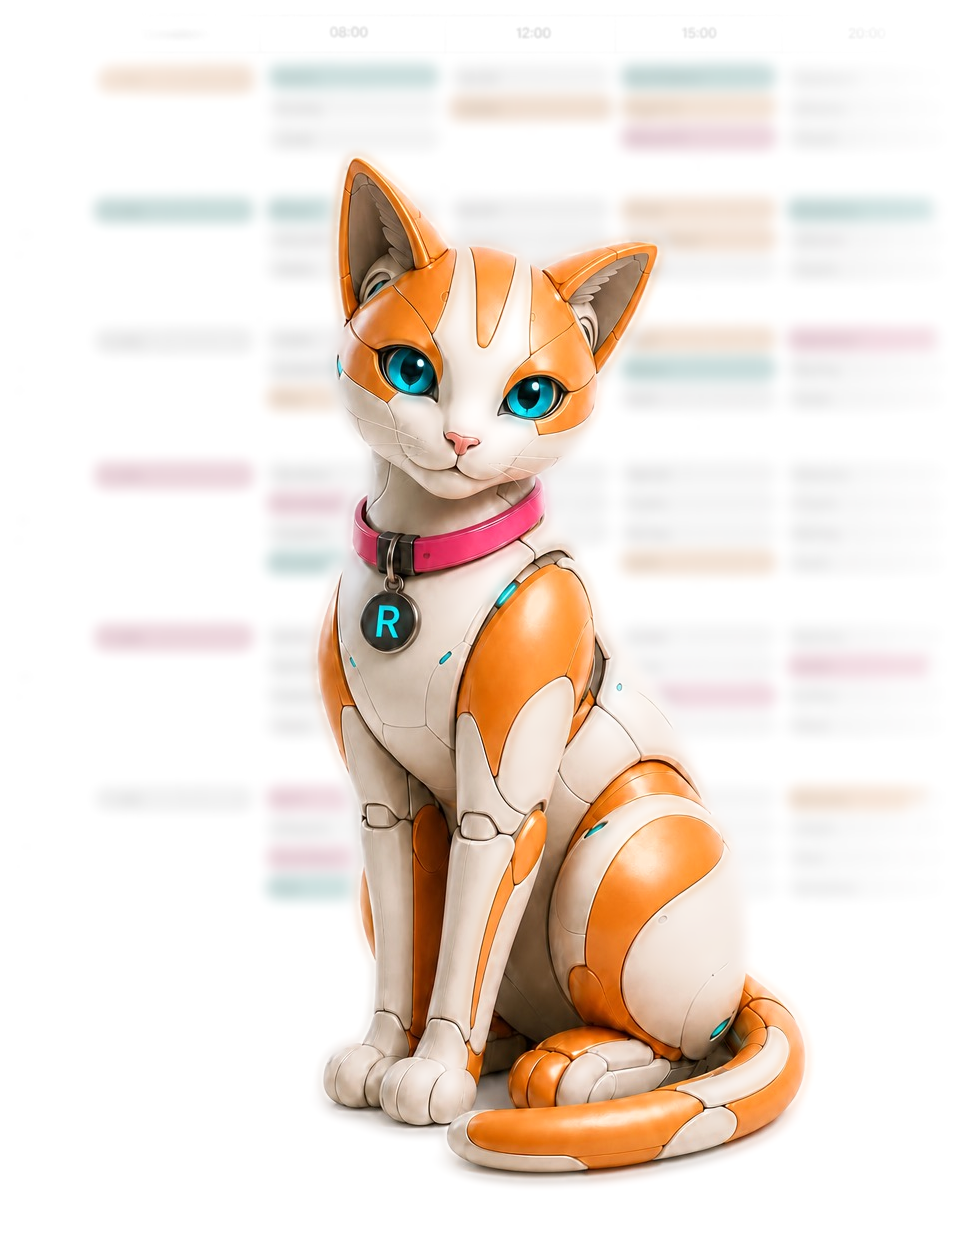
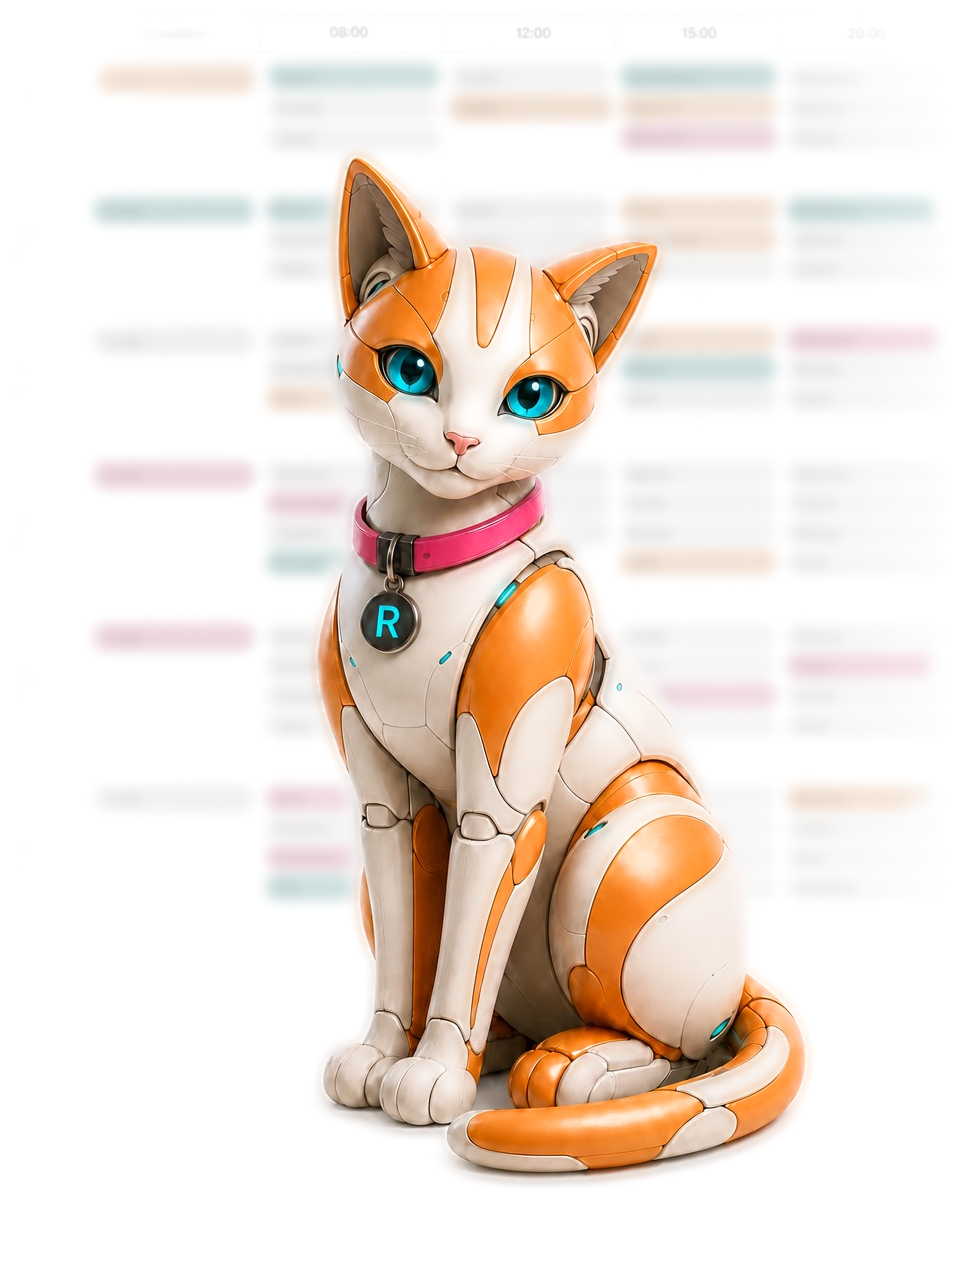
Fix the mascot's size and clearance on short viewports
Three problems, all from sizing the mascot against the viewport when the
space that actually constrains it is the panel:

Portrait phones. The paws cleared the mint sheet by 1px at 375x667 and
5px at 320x568 — visually touching. The canvas now carries 8.5% clearance
below the paws instead of 4.7%, which lifts every portrait size to at
least 11px. The cat renders about 4% smaller for it (268px tall at
390x844, was 279px).

Landscape tablets and wide phones, on the split layout. 45vh collapsed
the cat to 145-160px at 390-430px of viewport height, even though the
card — whose height the sign-in form sets, not the viewport — had room
for far more. A 260px floor via clamp() takes those to 206px. The card
was already taller than a landscape viewport at these sizes, so this
costs a little more scrolling; the sign-in button stays above the fold at
every size checked.

Landscape phones narrow enough for the stacked layout (667x375). The
paws sat 19px *behind* the sheet — clipped. There is no size that works
here: the sheet's 44dvh plus the 28px it overlaps leaves under 110px, and
a cat that small is not worth the clipping risk, so below 440px of
viewport height the mascot steps out and the wordmark carries the hero.

Checked across 16 viewports, portrait and landscape.

Claude-Session: https://claude.ai/code/session_01EAMMBJ3odzxL5sBj4of7jf

diff --git a/src/components/AuthHero.jsx b/src/components/AuthHero.jsx
@@ -22,7 +22,10 @@ export default function AuthHero() {
           than width because this canvas is ~1.6x taller than wide: the vh
           term keeps the whole branding column (wordmark + tagline + cat +
           padding) inside a 768px-tall laptop without clipping, and the px
-          cap stops it ballooning on tall displays. max-w-full then yields to
+          cap stops it ballooning on tall displays. The 260px floor is for
+          landscape phones and tablets: there 45vh collapses the cat to
+          ~150px even though the card, whose height the sign-in form sets,
+          has room for far more. max-w-full then yields to
           the panel on the one breakpoint where this artwork's roster backdrop
           makes it wider than the panel's padding allows (768px), letting
           object-contain scale it down rather than overflow. alt="" is
@@ -31,7 +34,7 @@ export default function AuthHero() {
       <img
         src={rotacatMascot}
         alt=""
-        className="mt-3 h-[min(250px,30dvh)] w-auto max-w-full translate-y-[5px] select-none object-contain md:mt-[15px] md:h-[min(430px,45vh)]"
+        className="mt-3 h-[min(250px,30dvh)] w-auto max-w-full translate-y-[5px] select-none object-contain md:mt-[15px] md:h-[clamp(260px,45vh,430px)]"
         draggable="false"
       />
     </div>

diff --git a/src/components/MobileAuthHero.jsx b/src/components/MobileAuthHero.jsx
@@ -24,13 +24,16 @@ export default function MobileAuthHero() {
           its own margin below the paws, which keeps them clear of the
           sheet — except below 640px of viewport height, where the sheet's
           fixed 44dvh leaves too little room and the paws would tuck behind
-          it, so the cat steps down a size there. alt="" is also deliberate
+          it, so the cat steps down a size there. Below 440px, a phone held
+          landscape, it steps out altogether: the sheet plus the 28px it
+          overlaps leaves so little that any cat big enough to see would be
+          clipped by it, and the wordmark carries the hero on its own. alt="" is also deliberate
           — the wordmark and tagline above already carry everything the
           image says. */}
       <img
         src={rotacatMascot}
         alt=""
-        className="mt-2 h-[min(345px,40dvh)] w-auto max-w-full translate-y-[5px] select-none object-contain [@media(max-height:640px)]:h-[min(200px,34dvh)] sm:h-[min(420px,44dvh)]"
+        className="mt-2 h-[min(345px,40dvh)] w-auto max-w-full translate-y-[5px] select-none object-contain [@media(max-height:640px)]:h-[min(200px,34dvh)] [@media(max-height:440px)]:hidden sm:h-[min(420px,44dvh)]"
         draggable="false"
       />
     </div>
